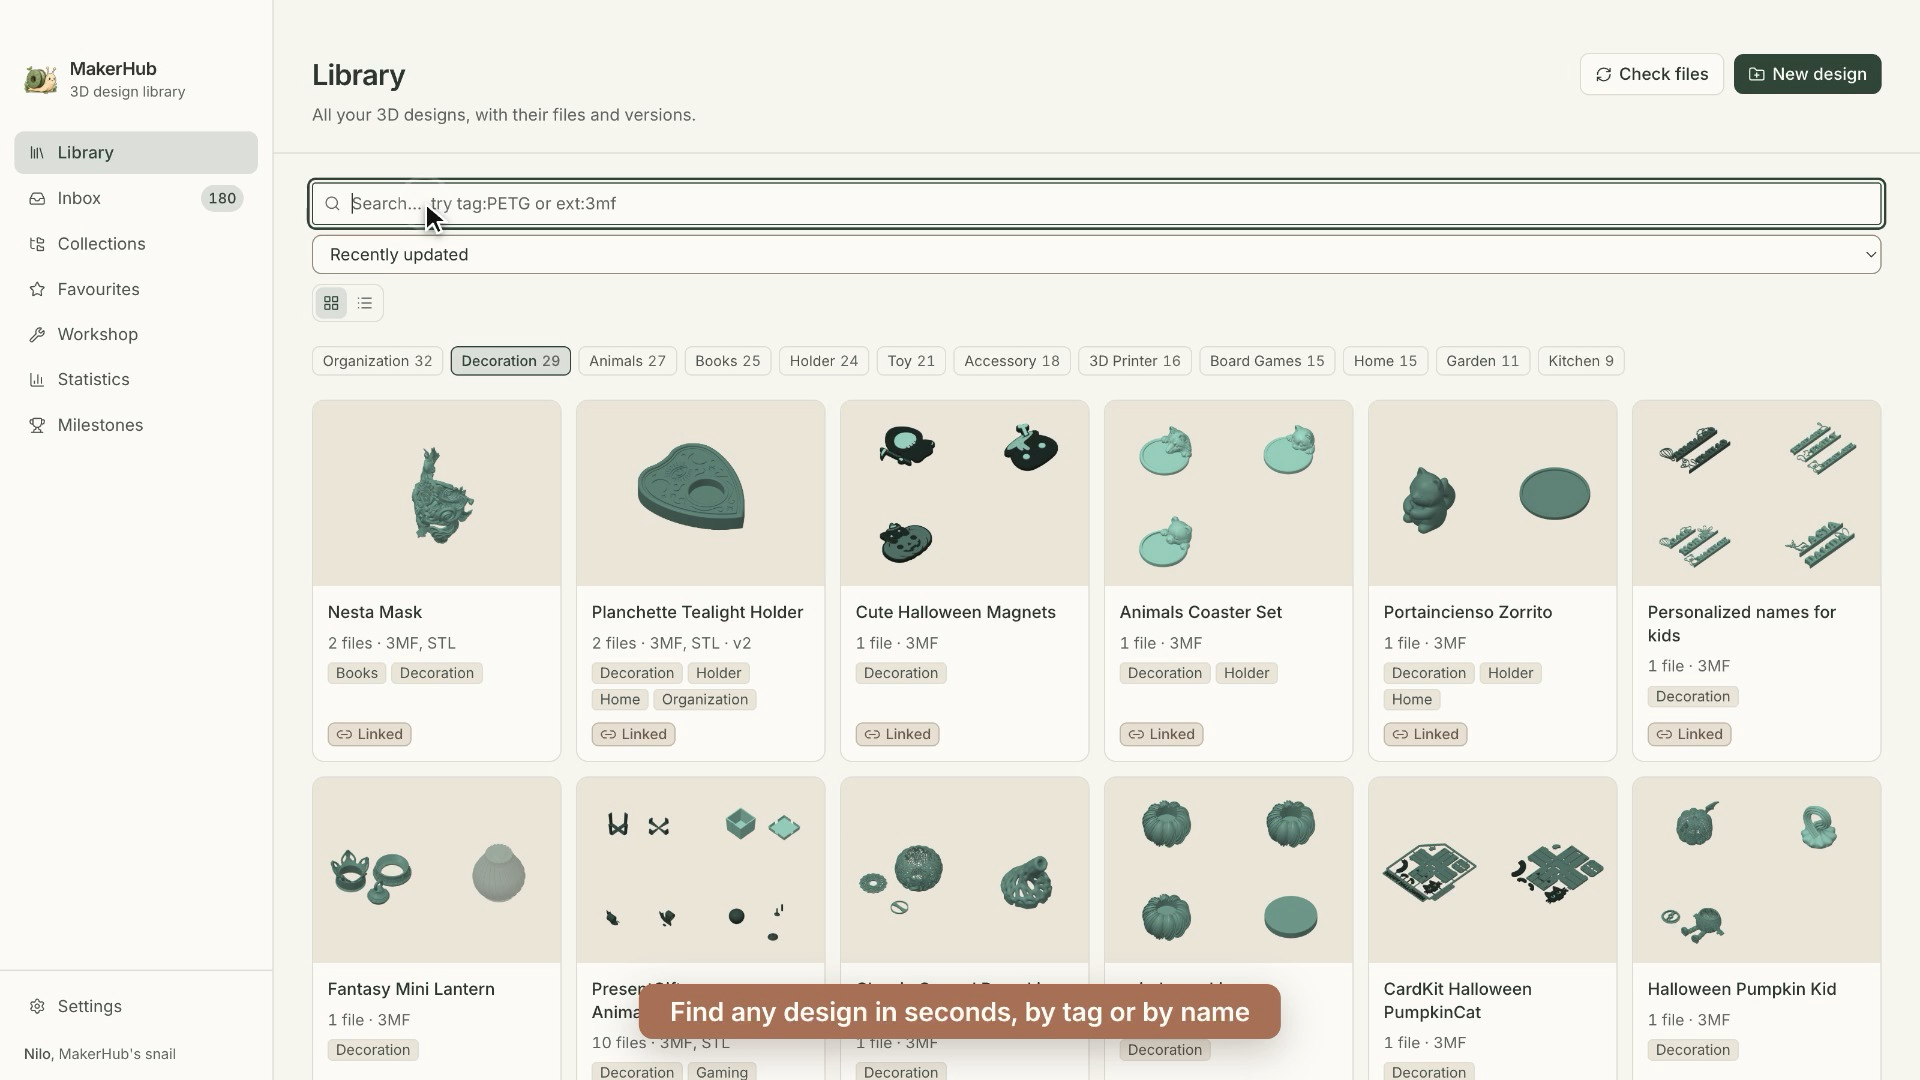
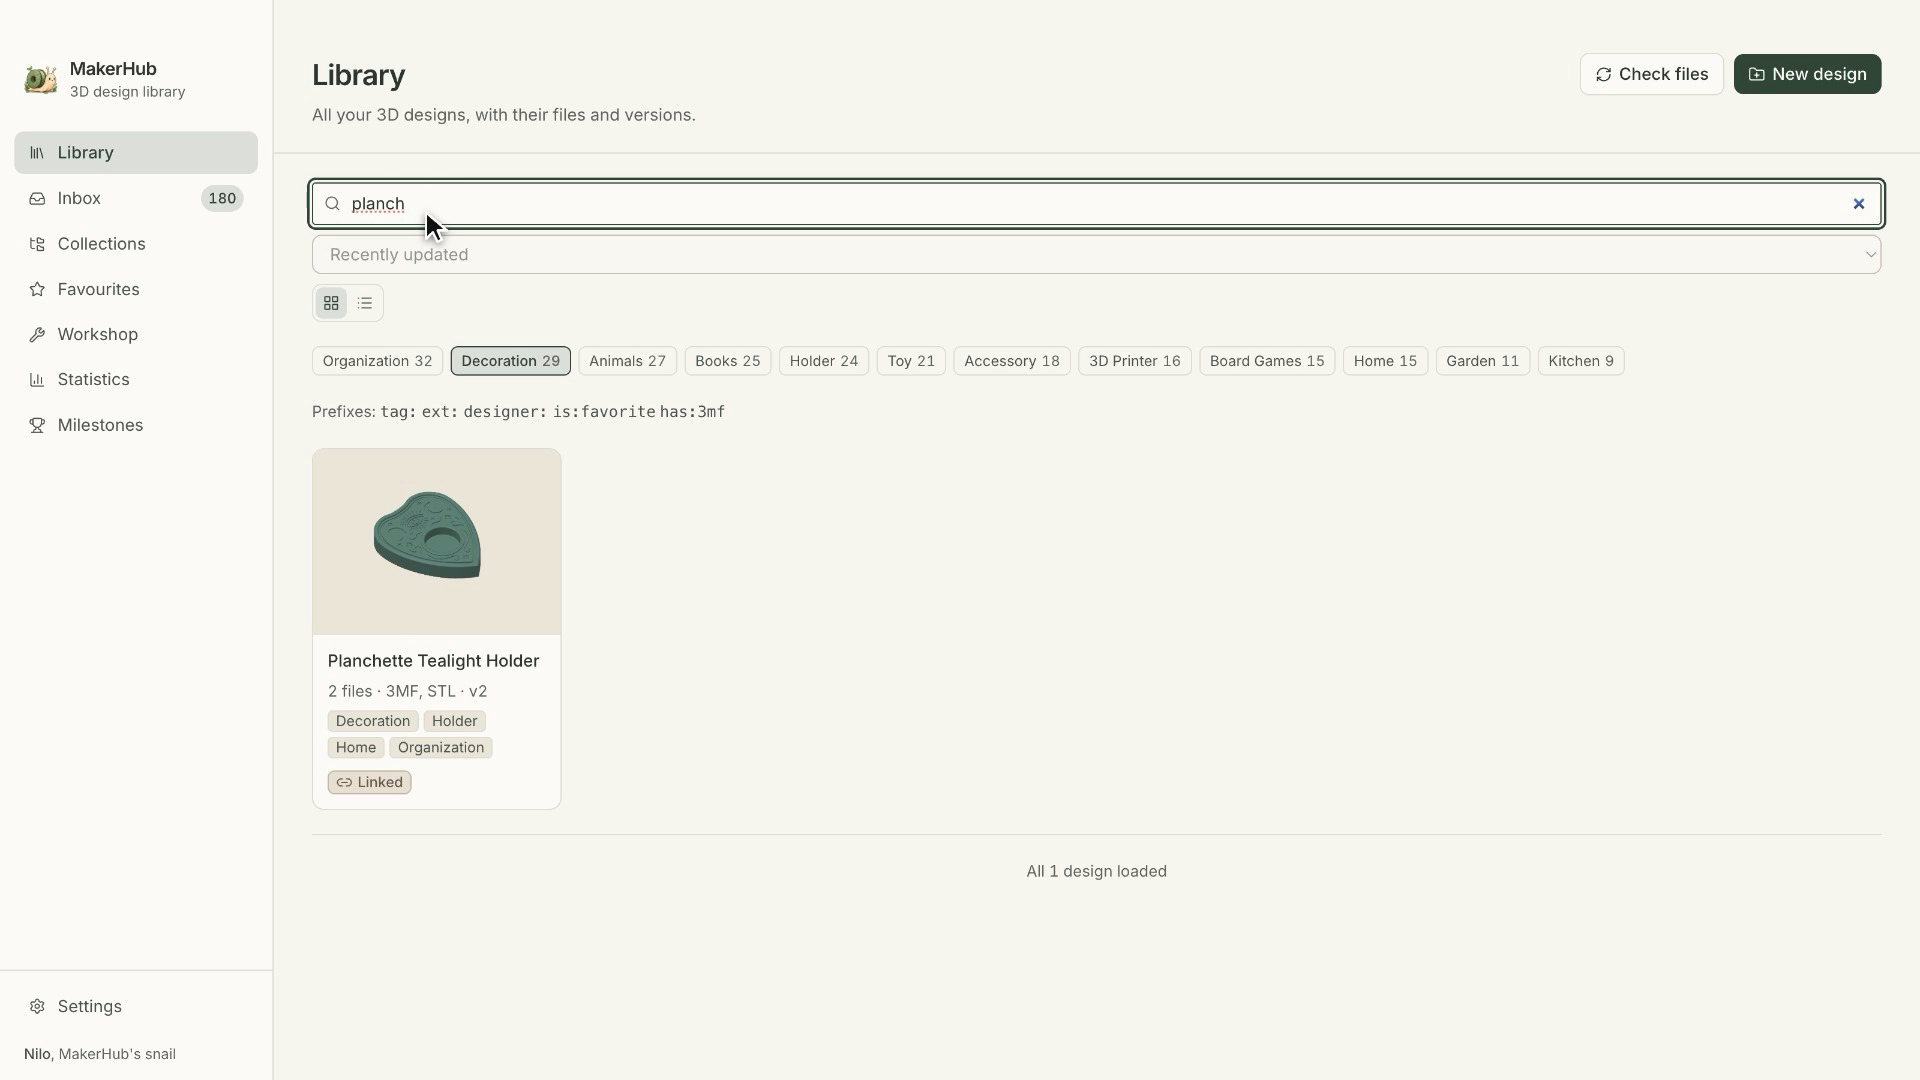
Demo v2: faster, with filaments and milestones

diff --git a/README.md b/README.md
@@ -109,14 +109,15 @@ The full brand guide, from the type scale to the three palettes and the rules fo
 
 ## Demo
 
-https://github.com/user-attachments/assets/8f2fd719-6198-466b-b164-9f4c4132e6ca
+https://github.com/user-attachments/assets/0720f7aa-b3de-417e-a620-edda3b733540
 
-A 66-second walkthrough of MakerHub, recorded with my own library. No sound: the captions carry the story. Some frames from it:
+A 70-second walkthrough of MakerHub, recorded with my own library. No sound: the captions carry the story. Some frames from it:
 
 | | | |
 |---|---|---|
-| ![Search](demo/stills/01-search.png) | ![Tags](demo/stills/02-tags.png) | ![Versions and prints](demo/stills/03-versions-and-prints.png) |
-| ![Inbox preview](demo/stills/04-inbox-turn.png) | ![Statistics](demo/stills/05-statistics.png) | ![Dark mode](demo/stills/06-dark-mode.png) |
+| ![Search](demo/stills/01-search.png) | ![Tags](demo/stills/02-tags.png) | ![Project data](demo/stills/03-project-data.png) |
+| ![Versions and prints](demo/stills/04-versions-and-prints.png) | ![Inbox preview](demo/stills/05-inbox-turn.png) | ![Filaments](demo/stills/06-filaments.png) |
+| ![Statistics](demo/stills/07-statistics.png) | ![Milestone reached](demo/stills/08-milestone-reached.png) | ![Dark mode](demo/stills/09-dark-mode.png) |
 
 ## What I learned
 

diff --git a/demo/README.md b/demo/README.md
@@ -1,7 +1,7 @@
 # Demo
 
-A 66-second walkthrough of MakerHub, recorded with my own library. No sound: the captions carry the story.
+A 70-second walkthrough of MakerHub, recorded with my own library. No sound: the captions carry the story.
 
-https://github.com/user-attachments/assets/8f2fd719-6198-466b-b164-9f4c4132e6ca
+https://github.com/user-attachments/assets/0720f7aa-b3de-417e-a620-edda3b733540
 
-What it shows: finding one of my own designs (a planchette tealight holder) by tag and by name, its tags, the print settings read from its Bambu Studio project, its versions and print log, turning a new file around in the Inbox (another of my designs, a cat coaster) before keeping it, the statistics view, and switching from light to dark mode.
+What it shows: finding one of my own designs (a planchette tealight holder) by tag and by name, its tags, the print settings read from its Bambu Studio project, its versions and print log, turning a new file around in the Inbox (another of my designs, a cat coaster) before keeping it, the filament spools in the Workshop, the statistics view, writing my own milestone and ticking it off, and switching from light to dark mode.
